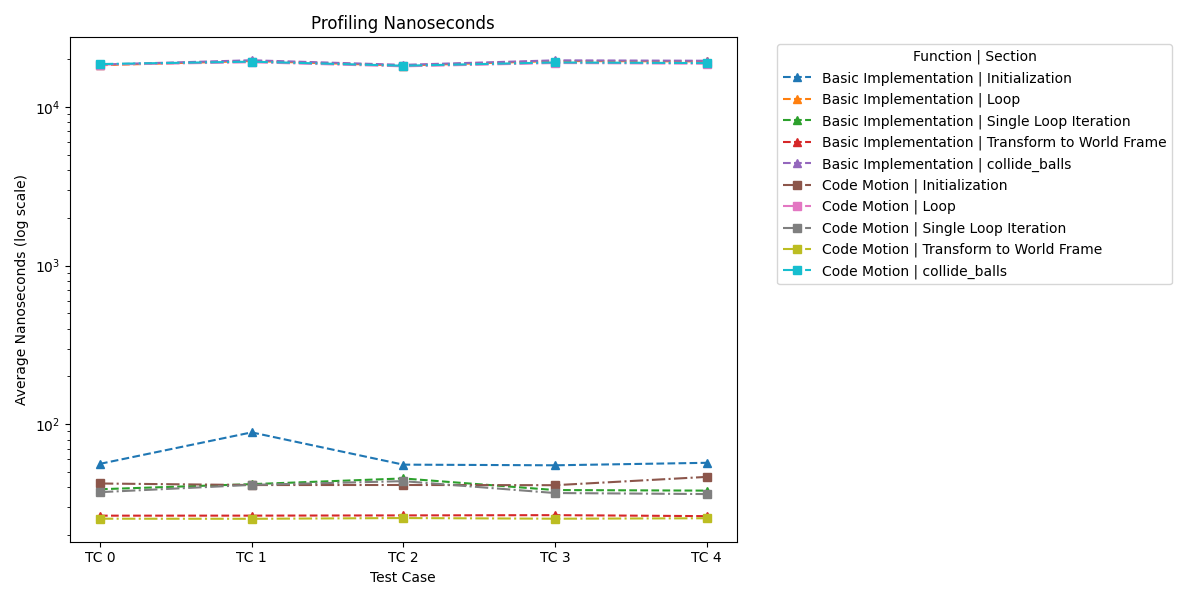
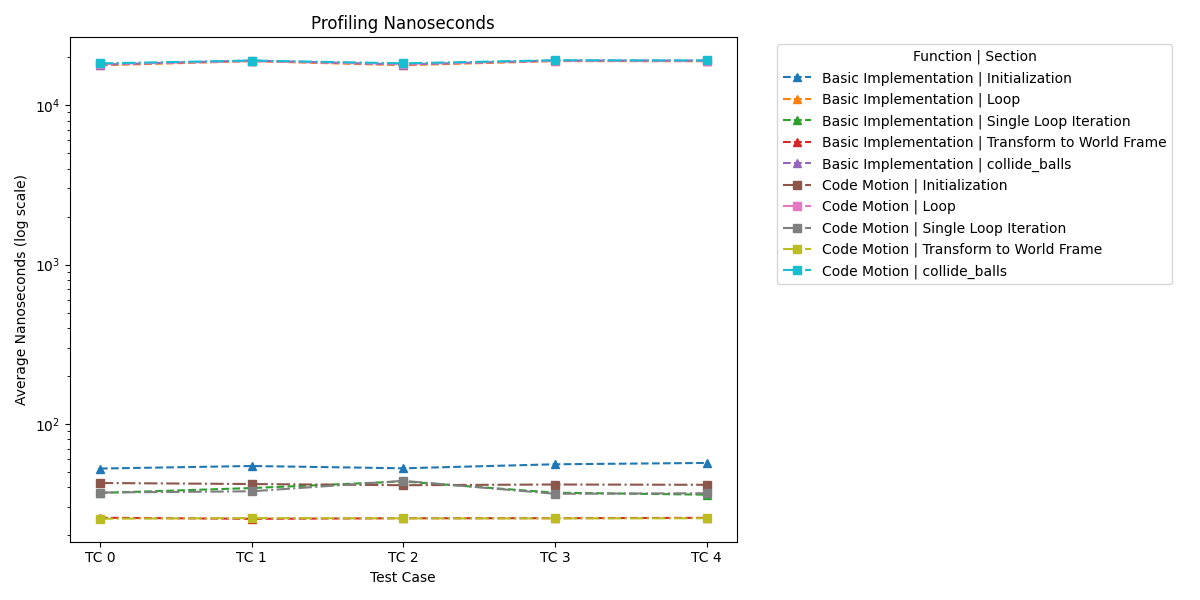
Removed UP vector and any dot products with it since only z axis is 1 and all others 0

diff --git a/src/pool.c b/src/pool.c
@@ -433,13 +433,11 @@ DLL_EXPORT void code_motion_collide_balls(double* rvw1, double* rvw2, float R, f
     forward[1] = offset[1] / offset_mag;
     forward[2] = offset[2] / offset_mag;
 
-    double up[3] = {0, 0, 1}; // Probably up axis?
-
-    FLOPS(9, complete_function, before_loop);
+    FLOPS(0, complete_function, before_loop);
     double right[3]; // Axis orthogonal to Z and forward
-    right[0] = forward[1] * up[2] - forward[2] * up[1];
-    right[1] = forward[2] * up[0] - forward[0] * up[2];
-    right[2] = forward[0] * up[1] - forward[1] * up[0];
+    right[0] = forward[1];
+    right[1] = -forward[0];
+    right[2] = 0;
 
     // From here on, it is assumed that the x axis is the right axis and y axis is the forward axis
     // Transform velocities to local frame
@@ -456,18 +454,18 @@ DLL_EXPORT void code_motion_collide_balls(double* rvw1, double* rvw2, float R, f
     };
 
     // Transform angular velocities into local frame
-    FLOPS(15, complete_function, before_loop);
+    FLOPS(10, complete_function, before_loop);
     double local_ang_1[3] = {
         angular_1[0] * right[0] + angular_1[1] * right[1] + angular_1[2] * right[2],
         angular_1[0] * forward[0] + angular_1[1] * forward[1] + angular_1[2] * forward[2],
-        angular_1[0] * up[0] + angular_1[1] * up[1] + angular_1[2] * up[2]
+        angular_1[2]
     };
 
-    FLOPS(15, complete_function, before_loop);
+    FLOPS(10, complete_function, before_loop);
     double local_ang_2[3] = {
         angular_2[0] * right[0] + angular_2[1] * right[1] + angular_2[2] * right[2],
         angular_2[0] * forward[0] + angular_2[1] * forward[1] + angular_2[2] * forward[2],
-        angular_2[0] * up[0] + angular_2[1] * up[1] + angular_2[2] * up[2]
+        angular_2[2]
     };
 
 
